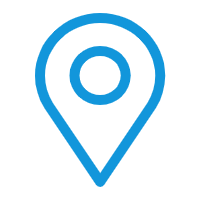
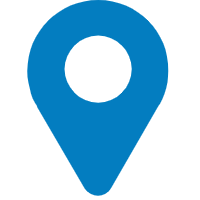
首页展示markers标记附近的站点位置

diff --git a/pages/index/index.vue b/pages/index/index.vue
@@ -4,10 +4,11 @@
       <search-bar></search-bar>
     </view>
     <map class="map-container"
-         :scale='16'
+         :scale='15'
          :longitude="curLocation.lon"
          :latitude="curLocation.lat"
-         show-location>
+         :markers="markers"
+         show-location="true">
     </map>
     <view class="title-container">
       <title
@@ -58,6 +59,7 @@ export default {
       keyword: "",
       buses: [],
       metros: [],
+      markers: [],
       curLocation: {}
     }
   },
@@ -73,10 +75,32 @@ export default {
         let metroUrl = `${that.url.metro.nearbyStations}?curLat=${lat}&curLon=${lon}`;
         that.ajax(busUrl, constant.HTTP_METHOD_GET, null, function (resp) {
           that.buses = resp.data.list;
-        })
+          for (let b of that.buses) {
+            let marker = {
+              title: b.stationName + "-公交站",
+              latitude: b.stationLat,
+              longitude: b.stationLon,
+              iconPath: '../../static/location-2.png',
+              width: 25,
+              height: 25
+            }
+            that.markers.push(marker);
+          }
+        });
         that.ajax(metroUrl, constant.HTTP_METHOD_GET, null, function (resp) {
           that.metros = resp.data.list;
-        })
+          for (let m of that.metros) {
+            let marker = {
+              title: m.stationName + "-地铁站",
+              latitude: m.stationLat,
+              longitude: m.stationLon,
+              iconPath: '../../static/location-2.png',
+              width: 25,
+              height: 25
+            }
+            that.markers.push(marker);
+          }
+        });
       }
     });
   },
